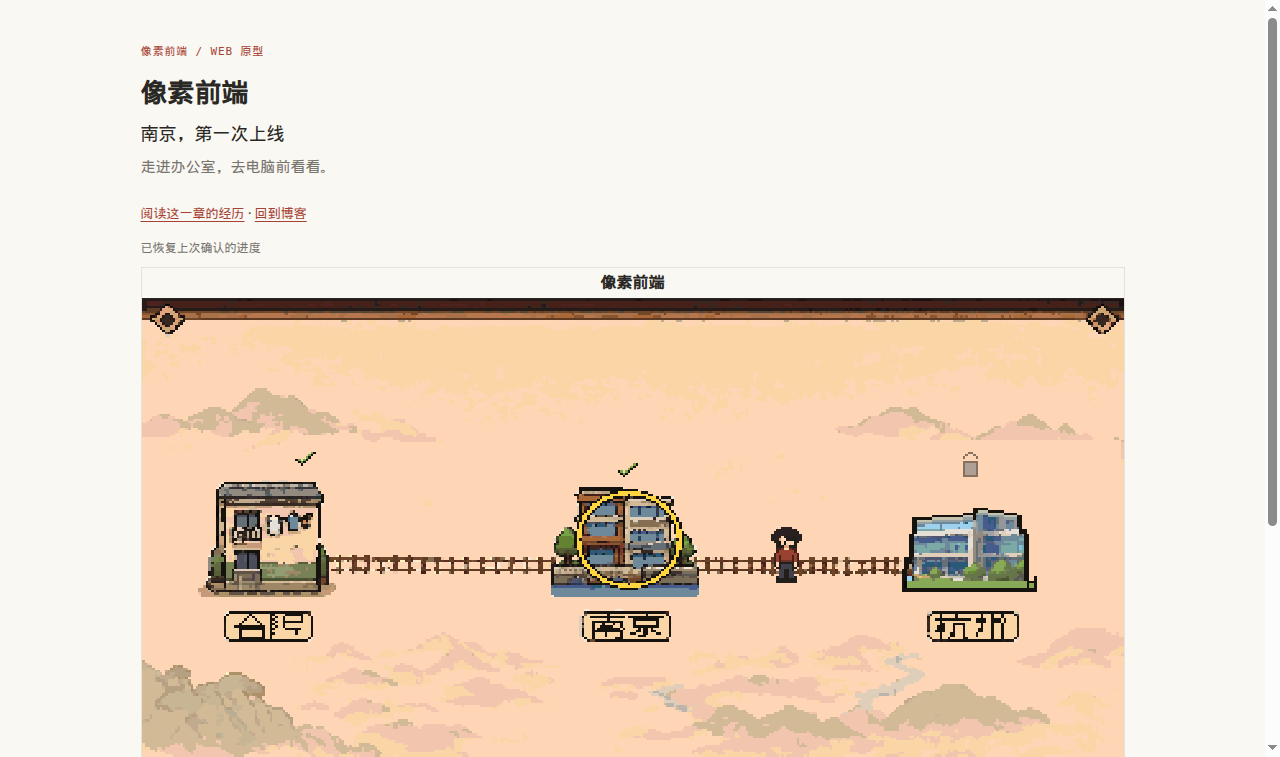
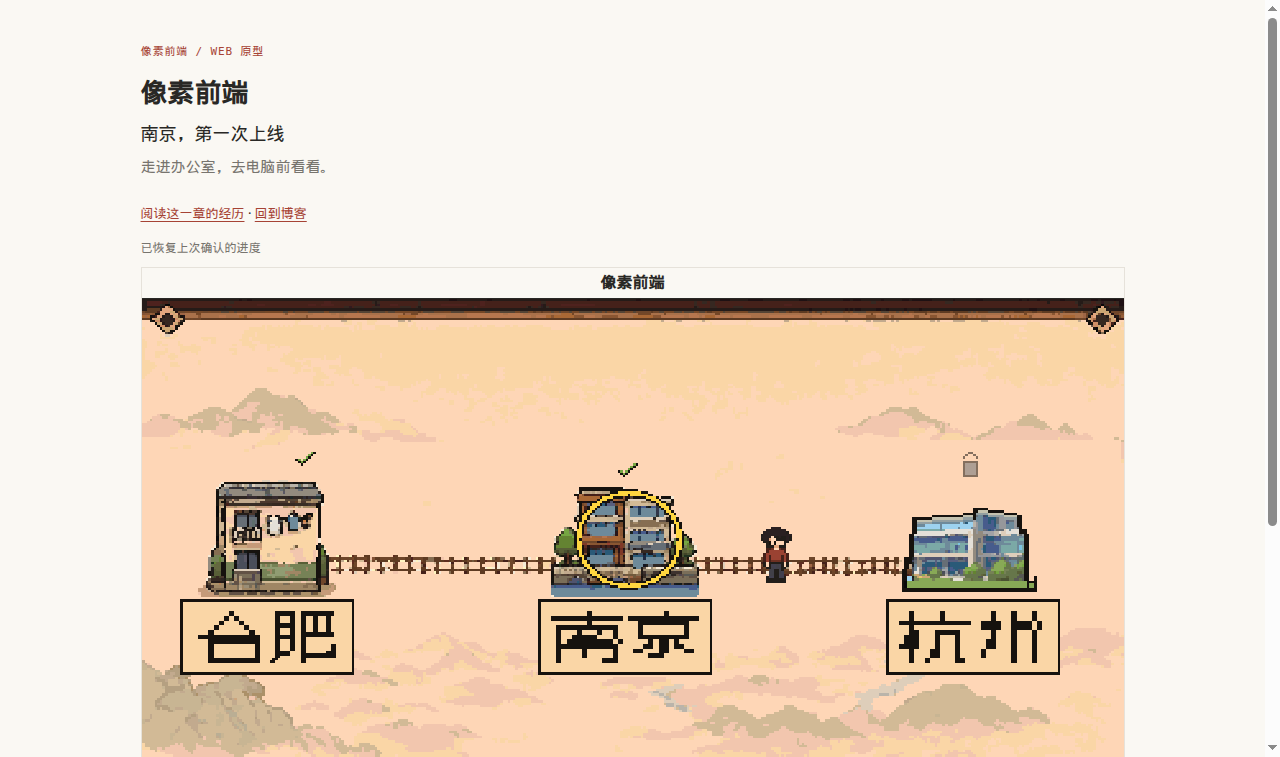
旅程地图地名牌加到 68×32，字身 22px 高
整页 1× 里 14×11 的「肥」糊成一块、「州」挤在一起。牌子盖住原小牌，28×22 像素字按整数坐标 1:1 贴上。

diff --git a/games/career-rpg/handoff.md b/games/career-rpg/handoff.md
@@ -2,7 +2,7 @@
 
 ## 当前恢复点（2026-11-05，杭州换皮与改名）
 
-用户确认杭州美术和改名。运行图在 `web/art/hangzhou/`，旅程地图换成 v2，空地名牌由程序叠「合肥 / 南京 / 杭州」。地名用 14×11 像素字，按整数坐标贴在牌内，不再用 8px 系统字取阈值。游戏名是《像素前端》，旧口号已从玩家界面去掉。Webpack 和 Babel 共用左下那一屏：先读 Webpack，再读 Babel，然后在同一屏上先后拾取。不修走路卡顿，不做坐姿。
+用户确认杭州美术和改名。运行图在 `web/art/hangzhou/`，旅程地图换成 v2，空地名牌由程序叠「合肥 / 南京 / 杭州」。地名牌加到 68×32，字身 28×22，按整数坐标 1:1 贴上。游戏名是《像素前端》，旧口号已从玩家界面去掉。Webpack 和 Babel 共用左下那一屏：先读 Webpack，再读 Babel，然后在同一屏上先后拾取。不修走路卡顿，不做坐姿。
 
 ## 当前恢复点（2026-11-05，南京技能与旅程地图）
 
